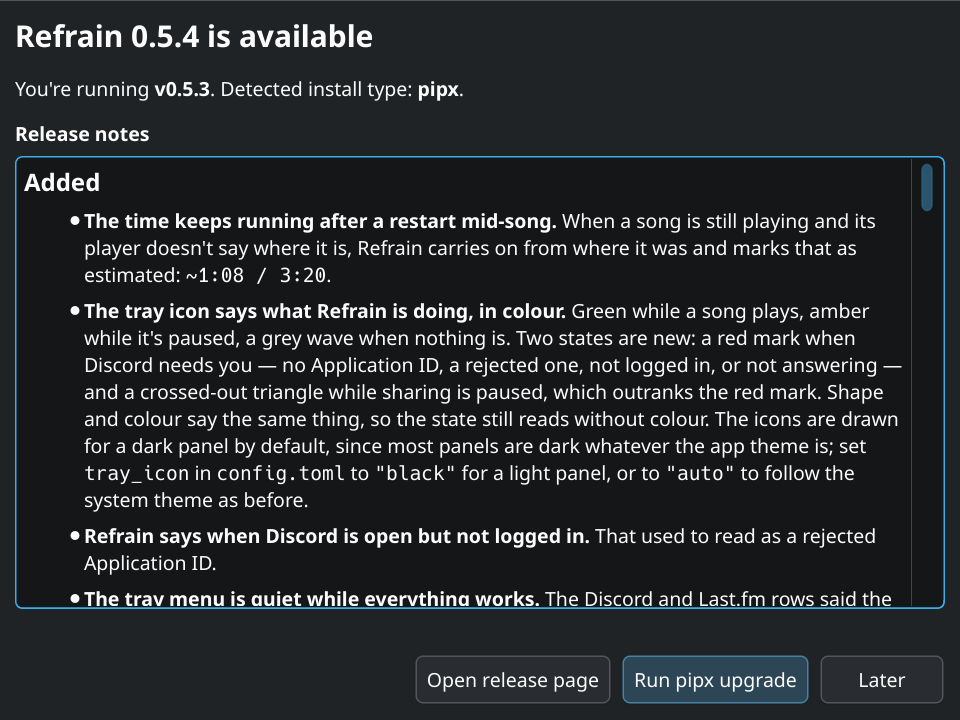
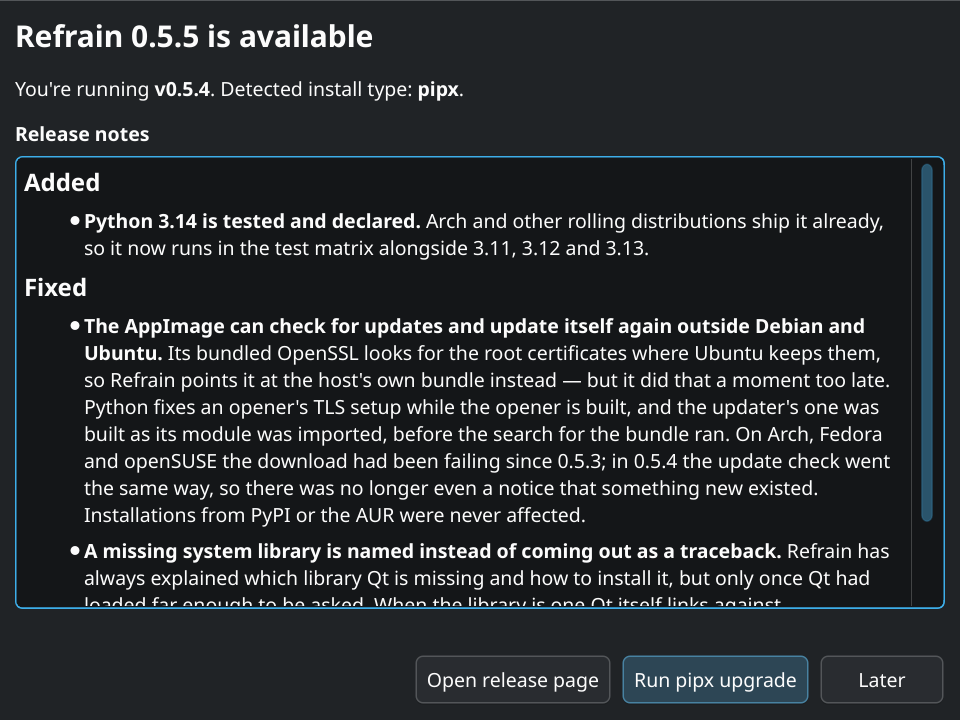
Release v0.5.5

Changed region(s): [[0.0312, 0.275, 0.9688, 0.8556], [0.1875, 0.0306, 0.2188, 0.0611]]

diff --git a/src/refrain/__init__.py b/src/refrain/__init__.py
@@ -1,1 +1,1 @@
-__version__ = "0.5.4"
+__version__ = "0.5.5"

diff --git a/README.md b/README.md
@@ -228,20 +228,20 @@ inside the app under **Settings → Legal**.
 
 | Stat | Value |
 |---|---|
-| Lines of code | 13,975 |
-| Lines in the repository | 96,221 |
-| Words in the repository | 340,459 |
-| Words of documentation | 51,098 |
-| Automated tests | 2,503 |
+| Lines of code | 14,000 |
+| Lines in the repository | 96,410 |
+| Words in the repository | 341,498 |
+| Words of documentation | 51,590 |
+| Automated tests | 2,510 |
 | Test coverage | 100 % |
-| Days since the first release | 145 |
-| Versions released | 25 |
-| Downloads | 2,822 |
-| Commits | 264 |
+| Days since the first release | 149 |
+| Versions released | 26 |
+| Downloads | 2,937 |
+| Commits | 275 |
 | Languages | 16 |
 | Runtime dependencies | 3 |
 | Browsers tested | 6 (Chrome, Chromium, Brave, Vivaldi, Firefox, Zen) |
 | Ways to install | 3 (PyPI, AUR, AppImage) |
 
-As of v0.5.4.
+As of v0.5.5.
 <!-- stats:end -->

diff --git a/docs/releases.md b/docs/releases.md
@@ -11,6 +11,7 @@ keep working.
 
 | Version | Released | Get it from |
 |---------|----------|-------------|
+| 0.5.5 | 2026-10-01 | PyPI, AUR, GitHub (with AppImage) |
 | 0.5.4 | 2026-09-27 | PyPI, AUR, GitHub (with AppImage) |
 | 0.5.3 | 2026-09-20 | PyPI, AUR, GitHub (with AppImage) |
 | 0.5.2 | 2026-09-18 | PyPI, AUR, GitHub |
